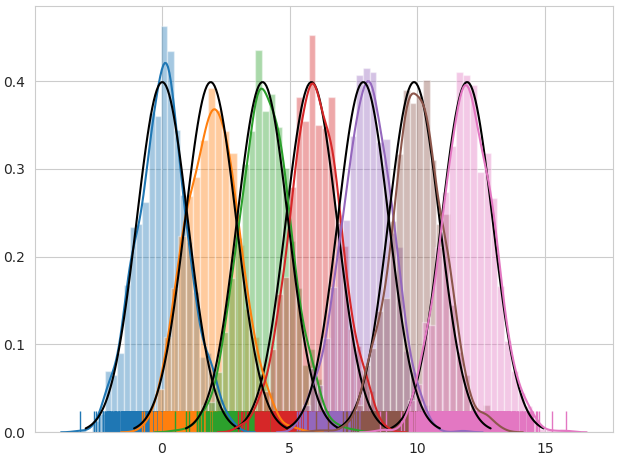
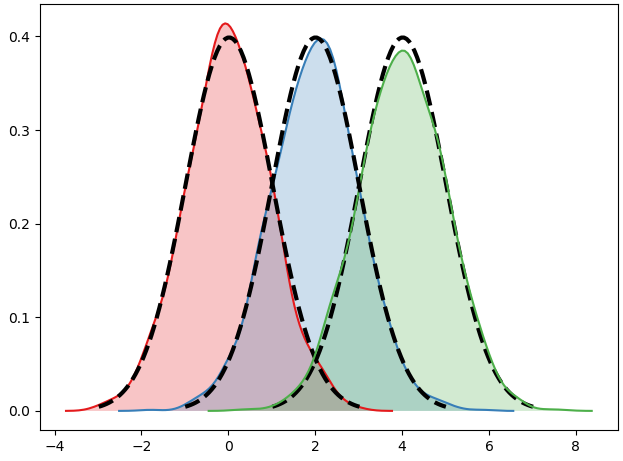
add comments and some experiments results

diff --git a/vae-cf/vae_cf_model.py b/vae-cf/vae_cf_model.py
@@ -30,6 +30,8 @@ class MultiDAE(object):
         self.construct_placeholders()
 
     def construct_placeholders(self):
+        # dims[0] == item size
+        # user interaction seq
         self.input_ph = tf.placeholder(
             dtype = tf.float32, shape = [None, self.dims[0]])
         self.keep_prob_ph = tf.placeholder_with_default(1.0, shape = None)
@@ -42,8 +44,9 @@ class MultiDAE(object):
         log_softmax_var = tf.nn.log_softmax(logits)
 
         # per-user average negative log-likelihood
-        neg_ll = -tf.reduce_mean(tf.reduce_sum(
-            log_softmax_var * self.input_ph, axis = 1))
+        # Multinomial likelihood
+        neg_ll = -tf.reduce_mean(tf.reduce_sum(log_softmax_var * self.input_ph, axis = 1))
+
         # apply regularization to weights
         reg = l2_regularizer(self.lam)
         reg_var = apply_regularization(reg, self.weights)
@@ -109,11 +112,16 @@ class MultiVAE(MultiDAE):
         self._construct_weights()
 
         saver, logits, KL = self.forward_pass()
+        # log_softmax_var => log pi(z) => f_{theta}(z)
         log_softmax_var = tf.nn.log_softmax(logits)
 
-        neg_ll = -tf.reduce_mean(tf.reduce_sum(
-            log_softmax_var * self.input_ph,
-            axis = -1))
+        # multinomial likelihood
+        neg_ll = -tf.reduce_mean(tf.reduce_sum(log_softmax_var * self.input_ph, axis = -1))
+
+        # # logistic loss or gaussian loss
+        # neg_ll = tf.reduce_mean(tf.reduce_sum(
+        #     tf.nn.sigmoid_cross_entropy_with_logits(labels = self.input_ph, logits = log_softmax_var)))
+
         # apply regularization to weights
         reg = l2_regularizer(self.lam)
 
@@ -132,6 +140,7 @@ class MultiVAE(MultiDAE):
 
         return saver, logits, neg_ELBO, train_op, merged
 
+    # encoder
     def q_graph(self):
         mu_q, std_q, KL = None, None, None
 
@@ -145,13 +154,16 @@ class MultiVAE(MultiDAE):
                 h = tf.nn.tanh(h)
             else:
                 mu_q = h[:, :self.q_dims[-1]]
+                # log(var)^{2}
                 logvar_q = h[:, self.q_dims[-1]:]
 
                 std_q = tf.exp(0.5 * logvar_q)
+                # KL divergence for N(0,1), Derivation ref the vae paper.
                 KL = tf.reduce_mean(tf.reduce_sum(
                     0.5 * (-logvar_q + tf.exp(logvar_q) + mu_q ** 2 - 1), axis = 1))
         return mu_q, std_q, KL
 
+    # decoder
     def p_graph(self, z):
         h = z
 
@@ -163,14 +175,14 @@ class MultiVAE(MultiDAE):
         return h
 
     def forward_pass(self):
-        # q-network
+        # q-network (Encoder)
         mu_q, std_q, KL = self.q_graph()
         epsilon = tf.random_normal(tf.shape(std_q))
 
         sampled_z = mu_q + self.is_training_ph * \
                     epsilon * std_q
 
-        # p-network
+        # p-network (Decoder)
         logits = self.p_graph(sampled_z)
 
         return tf.train.Saver(), logits, KL

diff --git a/vae-cf/vae_cf_train_val.py b/vae-cf/vae_cf_train_val.py
@@ -29,10 +29,15 @@ def load_train_data(csv_file):
     data = sparse.csr_matrix((np.ones_like(rows),
                               (rows, cols)), dtype = 'float64',
                              shape = (n_users, n_items))
+    print('train data shape :', data.shape)
     return data
 
 
+# about 11w users and 2w items
 train_data = load_train_data('train.csv')
+print(train_data.shape)
+print(train_data[0])
+print('load train data finished..')
 
 
 def load_tr_te_data(csv_file_tr, csv_file_te):
@@ -49,12 +54,15 @@ def load_tr_te_data(csv_file_tr, csv_file_te):
                                  (rows_tr, cols_tr)), dtype = 'float64', shape = (end_idx - start_idx + 1, n_items))
     data_te = sparse.csr_matrix((np.ones_like(rows_te),
                                  (rows_te, cols_te)), dtype = 'float64', shape = (end_idx - start_idx + 1, n_items))
+    print('tr shape :', data_tr.shape)
+    print('te shape :', data_te.shape)
     return data_tr, data_te
 
 
 vad_data_tr, vad_data_te = load_tr_te_data('validation_tr.csv', 'validation_te.csv')
 
 N = train_data.shape[0]
+# Users idx
 idxlist = range(N)
 
 # training batch size
@@ -115,6 +123,7 @@ p_dims = [200, 600, n_items]
 tf.reset_default_graph()
 vae = MultiVAE(p_dims, lam = 0.0, random_seed = 98765)
 
+# logits(predict value), loss (ELBO+KL)
 saver, logits_var, loss_var, train_op_var, merged_var = vae.build_graph()
 
 ndcg_var = tf.Variable(0.0)
@@ -165,9 +174,12 @@ if do_train:
                 end_idx = min(st_idx + batch_size, N)
                 X = train_data[idxlist[st_idx:end_idx]]
 
+                # X stands for user interactions with items
                 if sparse.isspmatrix(X):
                     X = X.toarray()
+                # X.shape = (batch size, item size)
                 X = X.astype('float32')
+                # print(len(X[0]))
 
                 if total_anneal_steps > 0:
                     anneal = min(anneal_cap, 1. * update_count / total_anneal_steps)
@@ -259,7 +271,7 @@ if do_train or do_eval:
     print("Test Recall@20=%.5f (%.5f)" % (np.mean(r20_list), np.std(r20_list) / np.sqrt(len(r20_list))))
     print("Test Recall@50=%.5f (%.5f)" % (np.mean(r50_list), np.std(r50_list) / np.sqrt(len(r50_list))))
 
-train_dae = 'True'
+train_dae = False
 if train_dae and do_train:
     p_dims = [200, n_items]
     tf.reset_default_graph()

diff --git a/vae-cf/vi_gmm.py b/vae-cf/vi_gmm.py
@@ -61,20 +61,20 @@ class gmm():
         return elbo
 
     def plot(self, size):
-        sns.set_style("whitegrid")
         for i in range(int(self.n / size)):
-            sns.distplot(data[size * i: (i + 1) * size], rug = True)
+            c=sns.color_palette('Set1', 3)
+            sns.kdeplot(data[size * i: (i + 1) * size],shade=True, color=c[i])
             x = np.linspace(self.m[i] - 3 * self.sigma, self.m[i] + 3 * self.sigma, 100)
-            plt.plot(x, norm.pdf(x, self.m[i], self.sigma), color = 'black')
+            plt.plot(x, norm.pdf(x, self.m[i], self.sigma), color= 'black',linewidth=3,ls='--')
         plt.show()
 
 
 if __name__ == "__main__":
     # generate data
-    number = 1000
-    clusters = 3
+    number = 1500
+    clusters = 2
     sigma = 1
-    mu = np.array([x*2 for x in range(clusters)])
+    mu = np.array([x*1 for x in range(clusters)])
     data = []
     # x-N(mu, sigma)
     for i in range(clusters):

diff --git a/vae-cf/vae_cf_preprocess.py b/vae-cf/vae_cf_preprocess.py
@@ -94,6 +94,7 @@ def split_train_test_proportion(data, test_prop=0.2):
 
         if n_items_u >= 5:
             idx = np.zeros(n_items_u, dtype = 'bool')
+            # Random choice 20% as test, 80% as train (based on what to infer)
             idx[np.random.choice(n_items_u, size = int(test_prop * n_items_u), replace = False).astype('int64')] = True
 
             tr_list.append(group[np.logical_not(idx)])

diff --git a/README.md b/README.md
@@ -116,6 +116,7 @@ Algorithm     |Paper Recall@20| Experiment Recall@20 | Paper NDCG@100 | Experime
 --------------|-------: |---------------:|-----------:|----------------:
  Multi-VAE^{PR}       | 0.395  | 0.3943        |  0.42478    | 0.426 |
 Multi-DAE       | 0.387  | 0.38739         |  0.419    | 0.41993 | 
+Logistic-VAE | 0.388 | 0.38821 | 0.419 | 0.41869 |
 
 
 ###### Notes
@@ -125,6 +126,8 @@ Multi-DAE       | 0.387  | 0.38739         |  0.419    | 0.41993 |
 ## VAE-CF
 
 Multi-VAE^{PR} 修改了目标函数，加入了一个beta约束。当beta小于1时，先验的约束减小，拟合的权重变大。采用模拟退火算法来比较高效的得到beta的合适值。
+
+另外采用multinomial分布来计算最大似然函数，而不是采用gaussian或者logistic，实验结果也确实证明在top n 排序中采用多项分布的结果更好一些。
 
 [original code ref](https://github.com/dawenl/vae_cf/blob/master/VAE_ML20M_WWW2018.ipynb)
 
